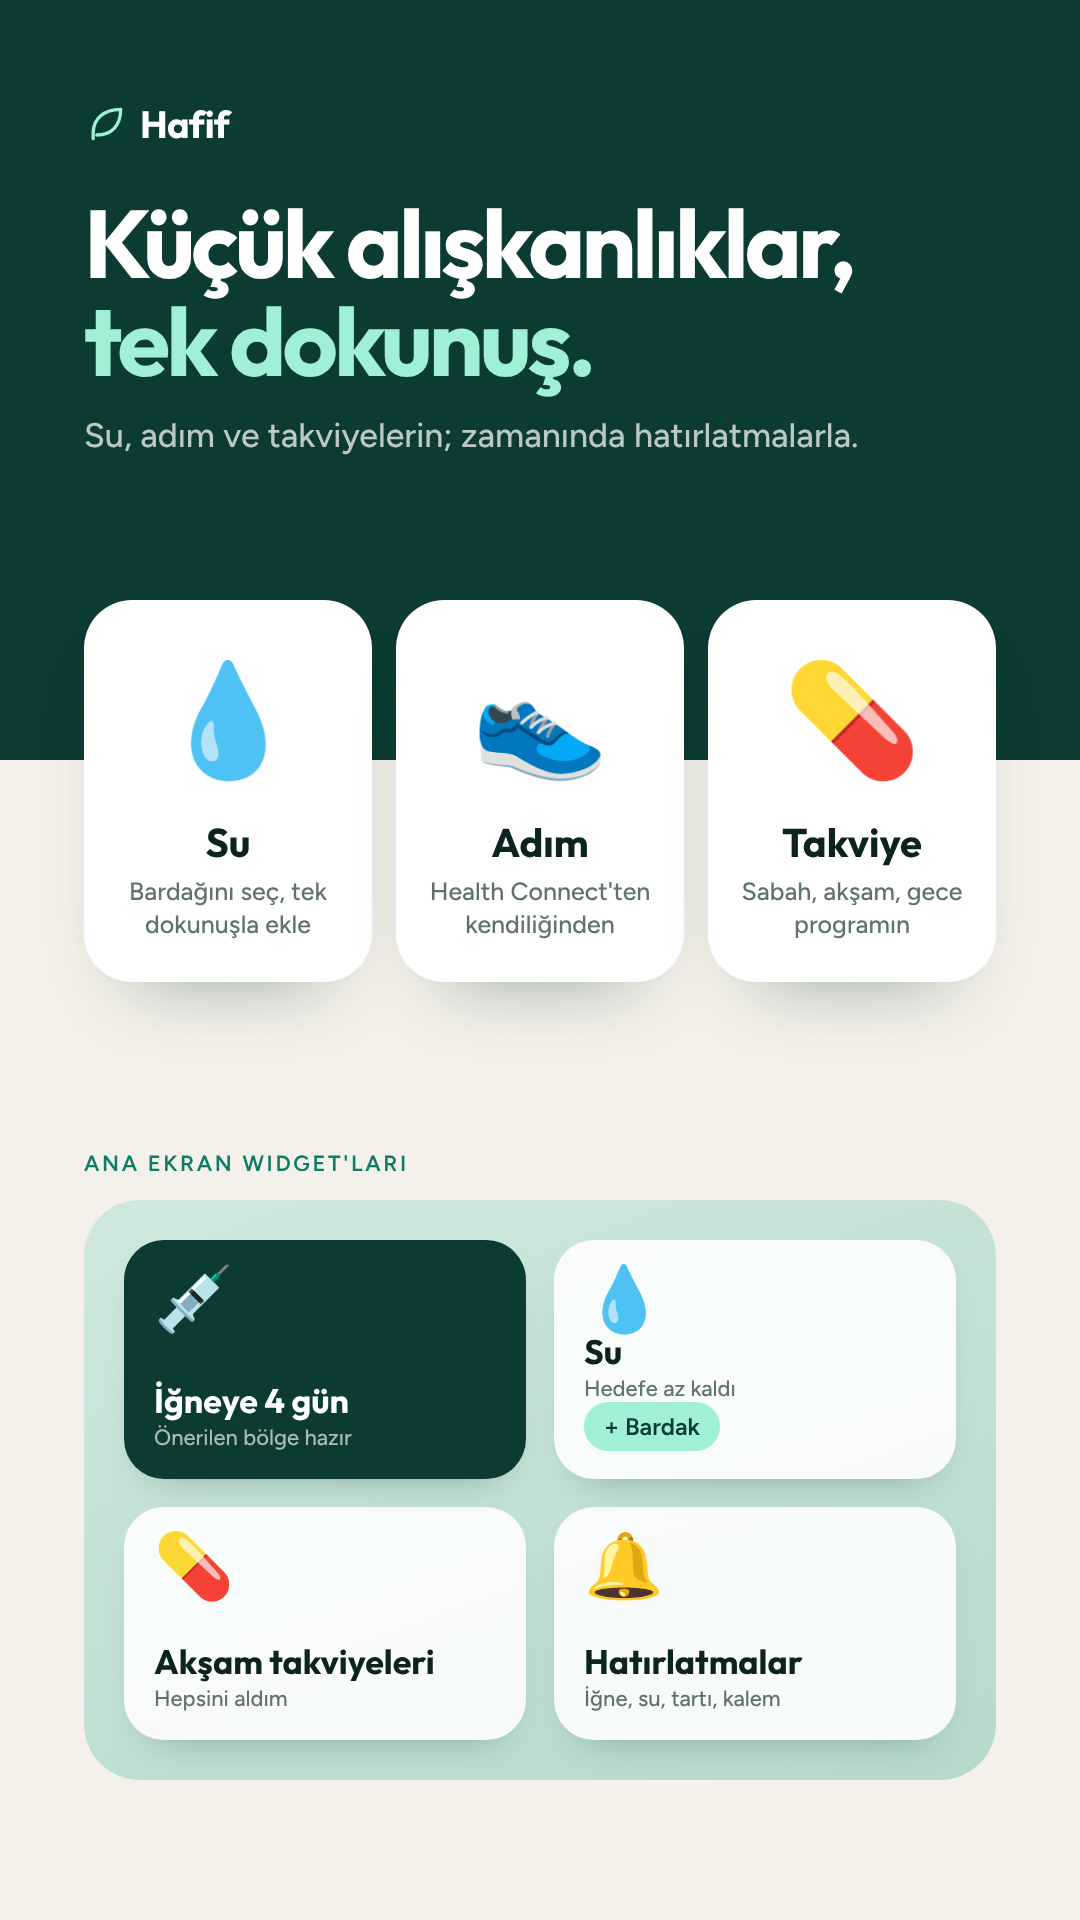
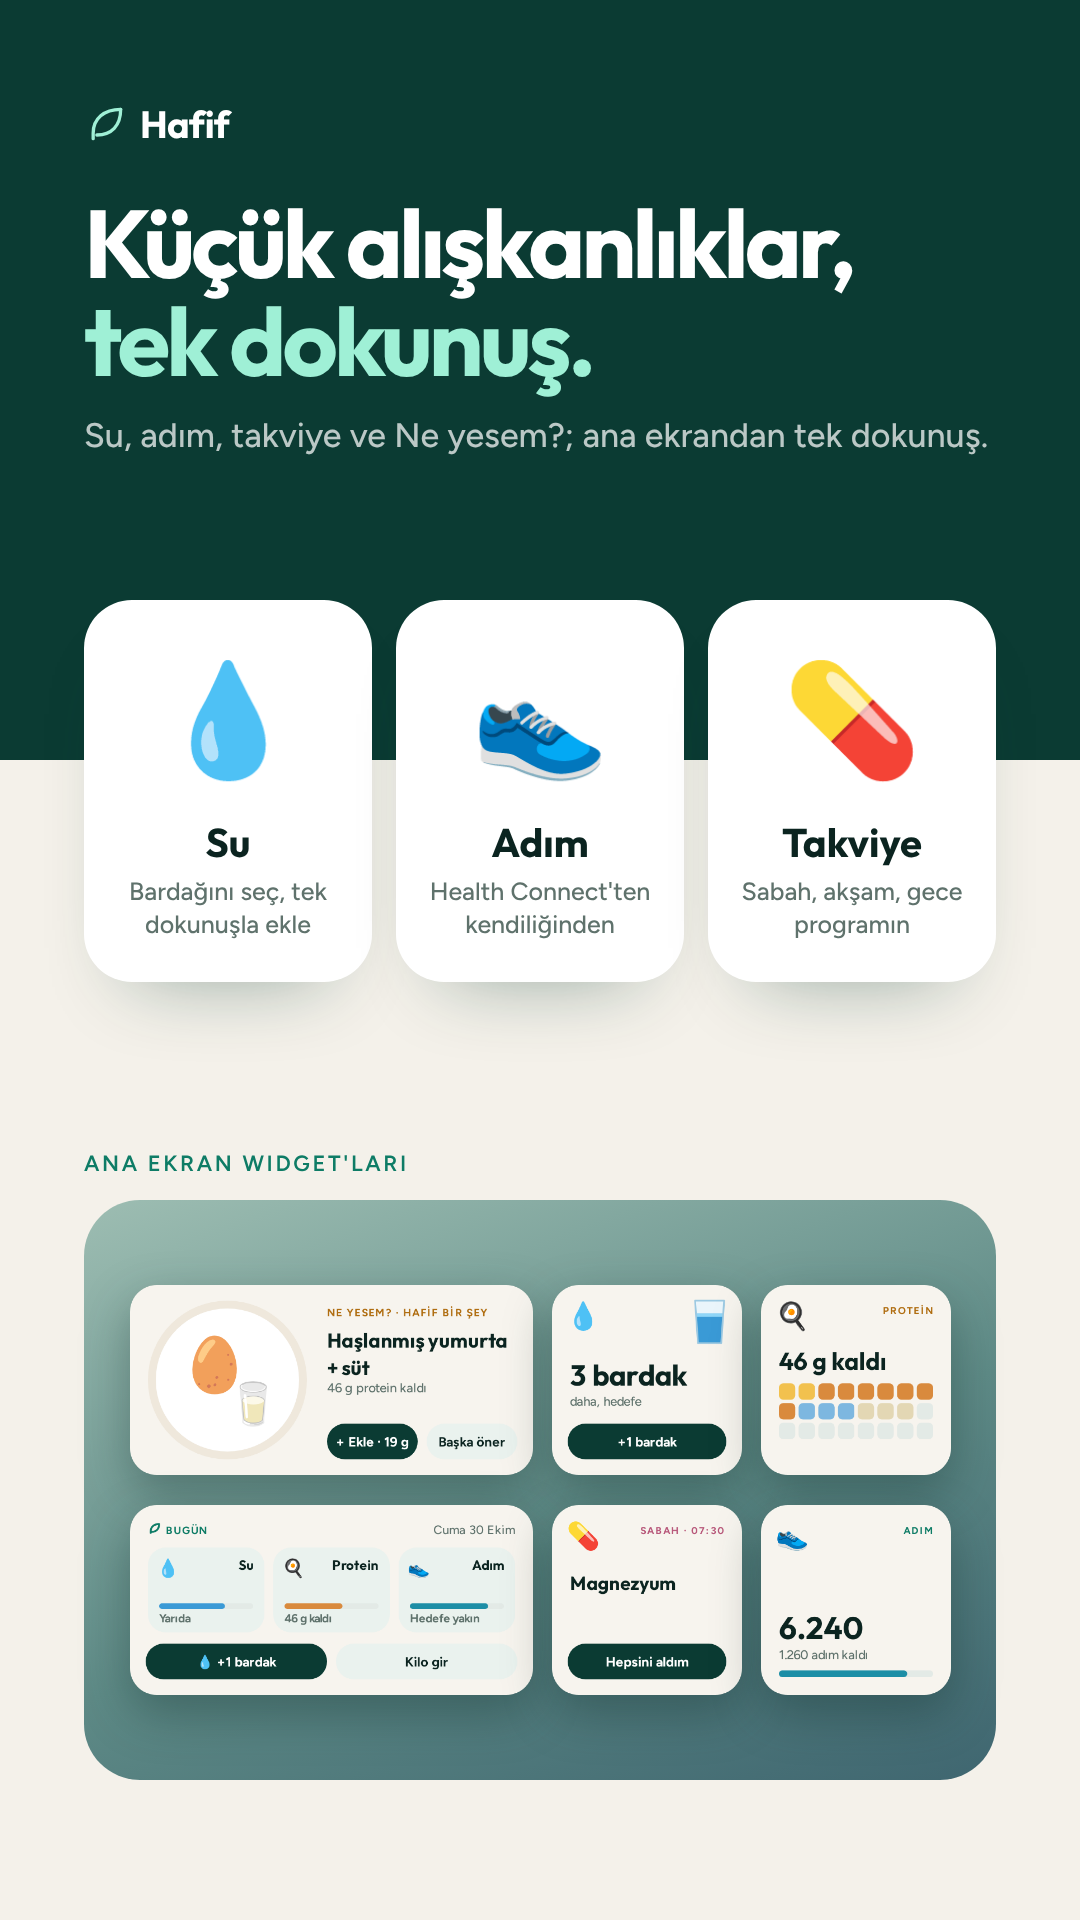
Mağaza görseli 6: gerçek yeni widget'lar ve Ne yesem? widget'ı
Claude-Session: https://claude.ai/code/session_01ERT3WxHgY3bECbR2LgZad1

Changed region(s): [[0.0611, 0.625, 0.9472, 0.9375], [0.2139, 0.2188, 0.9167, 0.25]]

diff --git a/magaza/kaynak/aso/tanitim-2.js b/magaza/kaynak/aso/tanitim-2.js
@@ -105,17 +105,12 @@ const s06 = head(`
 .tri{position:absolute;left:84px;right:84px;top:600px;display:grid;grid-template-columns:repeat(3,1fr);gap:24px}
 .tri .card{padding:40px 28px;text-align:center}.tri .e{font-size:110px;display:block;margin:6px 0 22px}.tri b{display:block;font:700 40px Outfit}.tri span{display:block;margin-top:8px;font:500 25px/1.35 Figtree;color:#5F726C}
 .wh{position:absolute;left:84px;top:1150px;font:700 22px Figtree;letter-spacing:.12em;text-transform:uppercase;color:${AC}}
-.home{position:absolute;left:84px;right:84px;top:1200px;height:580px;border-radius:56px;background:linear-gradient(160deg,#CFE8DE,#B7D9CC);padding:40px;display:grid;grid-template-columns:1fr 1fr;grid-template-rows:1fr 1fr;gap:28px}
-.w{border-radius:40px;background:rgba(255,255,255,.88);padding:28px 30px;display:flex;flex-direction:column;justify-content:space-between;box-shadow:0 20px 40px -30px rgba(11,59,51,.5)}
-.w .e{font-size:64px}.w b{font:700 34px/1.15 Outfit}.w small{display:block;font:500 22px Figtree;color:#5F726C;margin-top:4px}
-.w.dk{background:${Z};color:#fff}.w.dk small{color:rgba(255,255,255,.65)}.w .btn{align-self:flex-start;background:${N};color:${Z};border-radius:99px;padding:10px 20px;font:700 24px Figtree}`) + `
-<div class="band"><div class="t">${logo(N, '#fff')}<h1>Küçük alışkanlıklar,<br><em>tek dokunuş.</em></h1><div class="sub">Su, adım ve takviyelerin; zamanında hatırlatmalarla.</div></div></div>
+.home{position:absolute;left:84px;right:84px;top:1200px;height:580px;border-radius:56px;background:linear-gradient(160deg,#9DBDB2,#5E8A86 55%,#3F6670);padding:36px 30px;display:grid;grid-template-columns:403px 190px 190px;grid-auto-rows:190px;gap:30px 19px;align-content:center;justify-content:center}
+.home img{display:block;width:100%;height:100%;filter:drop-shadow(0 18px 24px rgba(11,40,36,.35))}`) + `
+<div class="band"><div class="t">${logo(N, '#fff')}<h1>Küçük alışkanlıklar,<br><em>tek dokunuş.</em></h1><div class="sub">Su, adım, takviye ve Ne yesem?; ana ekrandan tek dokunuş.</div></div></div>
 <div class="tri"><div class="card"><span class="e">💧</span><b>Su</b><span>Bardağını seç, tek dokunuşla ekle</span></div><div class="card"><span class="e">👟</span><b>Adım</b><span>Health Connect'ten kendiliğinden</span></div><div class="card"><span class="e">💊</span><b>Takviye</b><span>Sabah, akşam, gece programın</span></div></div>
 <div class="wh">Ana ekran widget'ları</div>
-<div class="home"><div class="w dk"><span class="e">💉</span><div><b>İğneye 4 gün</b><small>Önerilen bölge hazır</small></div></div>
-<div class="w"><span class="e">💧</span><div><b>Su</b><small>Hedefe az kaldı</small></div><span class="btn">+ Bardak</span></div>
-<div class="w"><span class="e">💊</span><div><b>Akşam takviyeleri</b><small>Hepsini aldım</small></div></div>
-<div class="w"><span class="e">🔔</span><div><b>Hatırlatmalar</b><small>İğne, su, tartı, kalem</small></div></div></div>` + end;
+<div class="home"><img src="file:///home/user/hafif/magaza/kaynak/aso/widget/widget-11-360x170.png" alt=""><img src="file:///home/user/hafif/magaza/kaynak/aso/widget/widget-7-170x170.png" alt=""><img src="file:///home/user/hafif/magaza/kaynak/aso/widget/widget-8-170x170.png" alt=""><img src="file:///home/user/hafif/magaza/kaynak/aso/widget/widget-3-360x170.png" alt=""><img src="file:///home/user/hafif/magaza/kaynak/aso/widget/widget-10-170x170.png" alt=""><img src="file:///home/user/hafif/magaza/kaynak/aso/widget/widget-9-170x170.png" alt=""></div></div>` + end;
 
 /* 07 · İlerleme — krem; iki polaroid, egzersiz haftası, şerit metre */
 const sil = c => `<svg viewBox="0 0 200 260"><rect width="200" height="260" fill="${c[0]}"/><circle cx="100" cy="86" r="34" fill="${c[1]}"/><path d="M${c[2]} 260c0-70 30-108 ${100 - c[2]}-108s${100 - c[2]} 38 ${100 - c[2]} 108z" fill="${c[1]}"/></svg>`;
